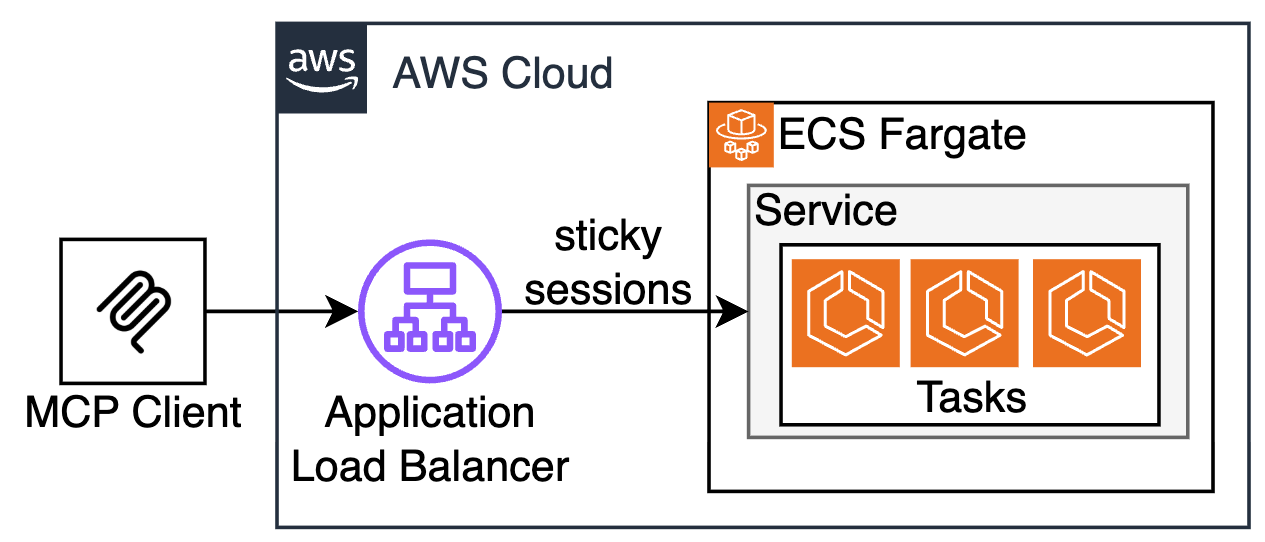
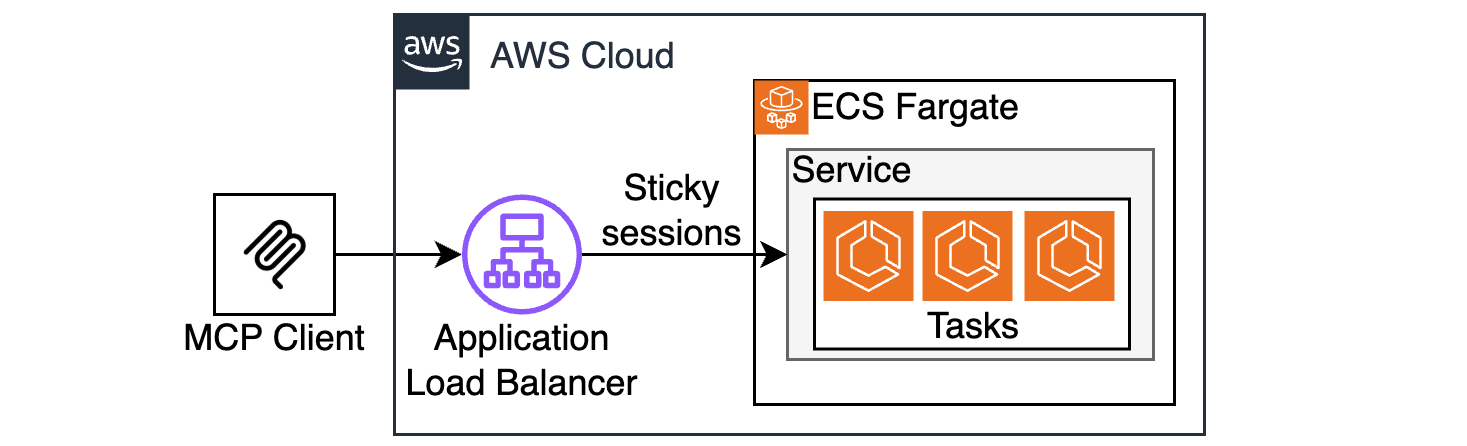
updated readme and arch images

Changed region(s): [[0.0, 0.0291, 1.0, 0.991]]

diff --git a/README.md b/README.md
@@ -6,7 +6,33 @@ This repo contains a collection of sample implementations of MCP Servers.
 * stateless-mcp-on-ecs
 * stateful-mcp-on-ecs
 
-Refer to each folder separately for deployment instructions. 
+## Stateful VS Stateless MCP Servers
+
+When using [Streamable HTTP Transport]((https://modelcontextprotocol.io/specification/2025-03-26/basic/transports#streamable-http)) with MCP Servers/Clients, it’s important to understand the difference and trade-offs between stateful and stateless MCP server implementations. Each model has implications for scalability, connection handling, and session management.
+
+#### Key Aspects
+
+The Streamable HTTP Transport specification outlines two important capabilities. First, a client may initiate a long-lived HTTP GET request to establish a persistent SSE (Server-Sent Events) connection, allowing the server to push data even when the client hasn’t sent a POST request. Second, if the connection is interrupted, the client should be able to resume communication by reconnecting through another GET request. Both features imply that the server must be able to maintain a persistent session context and support long-lived connections.
+
+#### Stateful model challenges
+
+In a stateful MCP server, this means maintaining session state in memory and keeping SSE connections alive over time. However, as of early May 2025, none of the official MCP SDKs support external session persistence (e.g. in Redis or DynamoDB). This limitation makes it difficult to scale stateful servers horizontally. For example, a client might establish a session with one server instance, but if subsequent requests are routed to a different instance, the session context will be lost and the connection will fail.
+
+That said, it is still possible to scale stateful MCP servers if you're willing to configure session affinity, also known as sticky sessions, at the load balancer level. For example, cookie-based sticky sessions can ensure that a client is routed to the same server instance for the duration of a session. However, the TypeScript MCP Client SDK currently relies on the `fetch` API, which doesn’t natively support cookies. To work around this limitation, you'll need to implement manual cookie handling, as shown in the `stateful-mcp-on-ecs` example.
+
+![](./stateful-mcp-on-ecs/architecture.png)
+
+#### Stateless to the rescue
+
+The MCP specification also allows for a stateless server mode. In this mode, the server doesn’t maintain session context between requests, and clients are not expected to resume dropped connections. Stateless mode enables seamless horizontal scaling and works well in environments where elasticity and load distribution are critical. This model is demonstrated in the `stateless-mcp-on-lambda` and `stateless-mcp-on-ecs` samples included in this repository.
+
+![](./stateless-mcp-on-lambda/architecture.png)
+
+
+![](./stateless-mcp-on-ecs/architecture.png)
+
+
+Refer to each folder separately for further instructions and deployment steps. 
 
 ## License
 
